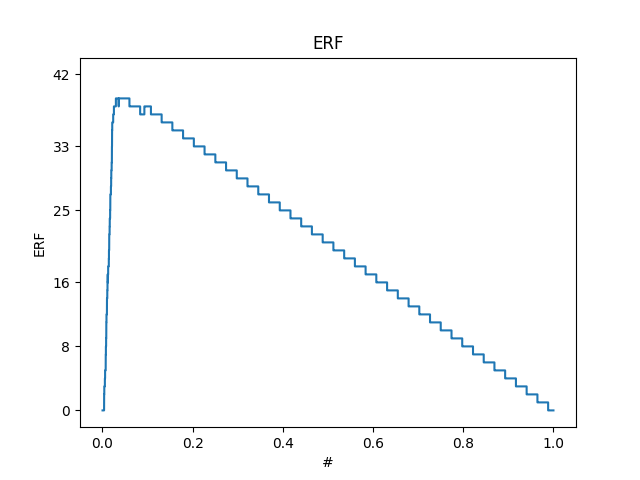
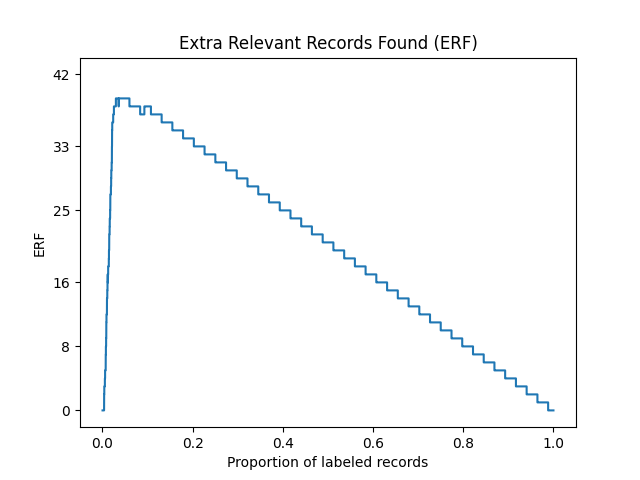
Fix problem with incorrect labels for x axis

Changed region(s): [[0.2812, 0.0625, 0.75, 0.125], [0.3438, 0.9375, 0.6562, 1.0]]

diff --git a/asreviewcontrib/insights/plot.py b/asreviewcontrib/insights/plot.py
@@ -72,9 +72,14 @@ def _plot_recall(ax, labels, x_absolute=False, y_absolute=False):
         y_lim = [-0.05, 1.05]
         yticks = [0, 0.2, 0.4, 0.6, 0.8, 1.0]
 
+    if x_absolute:
+        xlabel = "Number of labeled records"
+    else:
+        xlabel = "Proportion of labeled records"
+
     ax.step(x, y, where='post')
     ax.set_title("Recall")
-    ax.set(xlabel='#', ylabel='Recall')
+    ax.set(xlabel=xlabel, ylabel='Recall')
     ax.set_ylim(y_lim)
     ax.set_yticks(yticks)
 
@@ -269,9 +274,14 @@ def _plot_erf(ax, labels, x_absolute=False, y_absolute=False):
         y_lim = [-0.05, 1.05]
         yticks = [0, 0.2, 0.4, 0.6, 0.8, 1.0]
 
+    if x_absolute:
+        xlabel = "Number of labeled records"
+    else:
+        xlabel = "Proportion of labeled records"
+
     ax.step(x, y, where='post')
     ax.set_title("Extra Relevant Records Found (ERF)")
-    ax.set(xlabel='#', ylabel='ERF')
+    ax.set(xlabel=xlabel, ylabel='ERF')
     ax.set_ylim(y_lim)
     ax.set_yticks(yticks)
 
